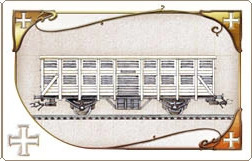
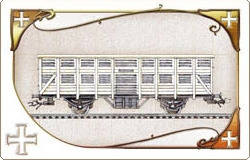
[#32] | starts to implement the game end condition for multiplayer, crops the image | Sanket/Ayush

diff --git a/test/handlers_test/map_handlers_test.js b/test/handlers_test/map_handlers_test.js
@@ -187,3 +187,81 @@ describe("Checks the game end conditions", () => {
     assertEquals(await res.status, 303);
   });
 });
+
+describe("ending game within multiplayer", () => {
+  let carCardsDeck;
+  let ticketDeck;
+  let res, app, game;
+  beforeEach(() => {
+    const carCards = [
+      "red",
+      "green",
+      "blue",
+      "pink",
+      "white",
+      "yellow",
+      "orange",
+      "black",
+      "wild",
+    ];
+
+    const ticketCards = [
+      { id: "DVR-ELP", src: "Denver", dest: "El Paso", points: 4 },
+      { id: "HLN-LAS", src: "Helena", dest: "Los Angeles", points: 8 },
+      { id: "WPG-HTN", src: "Winnipeg", dest: "Houston", points: 12 },
+      { id: "MTL-NOL", src: "Montreal", dest: "New Orleans", points: 13 },
+      {
+        id: "SSM-OKC",
+        src: "Sault St. Marie",
+        dest: "Oklahoma City",
+        points: 9,
+      },
+      { id: "STL-NYC", src: "Seattle", dest: "New York", points: 22 },
+    ];
+
+    carCardsDeck = new CarCardsDeck(carCards);
+    ticketDeck = new TicketDeck(ticketCards);
+
+    const player = new Player();
+    player.addCarCardToHand("red");
+    player.addCarCardToHand("red");
+    player.addCarCardToHand("red");
+    player.addCarCardToHand("red");
+    player.addCarCardToHand("red");
+    game = new Game(carCardsDeck, ticketDeck, player);
+
+    player.playerBogies = 5;
+    app = createApp(game);
+  });
+  it("after sending request to /claim-route if", async () => {
+    res = await app.request("/claim-route", {
+      method: "post",
+      body: JSON.stringify({
+        playerId: "1",
+        routeId: "SLC-DVR",
+        cardsUsed: {
+          colorCardUsed: "red",
+          colorCardCount: 3,
+          wildCardCount: 0,
+        },
+      }),
+    });
+
+    assertEquals(await res.status, 200);
+
+    res = await app.request("/claim-route", {
+      method: "post",
+      body: JSON.stringify({
+        playerId: "1",
+        routeId: "DLT-CHG",
+        cardsUsed: {
+          colorCardUsed: "red",
+          colorCardCount: 3,
+          wildCardCount: 0,
+        },
+      }),
+    });
+
+    assertEquals(await res.status, 303);
+  });
+});

diff --git a/src/models/player.js b/src/models/player.js
@@ -62,7 +62,6 @@ export default class Player {
 
     this.#removeUsedBogies(colorCardCount + wildCardCount);
     this.#claimedRoutes.push(routeId);
-    // return structuredClone(this.#playerId);
   }
 
   getPlayerColor() {
